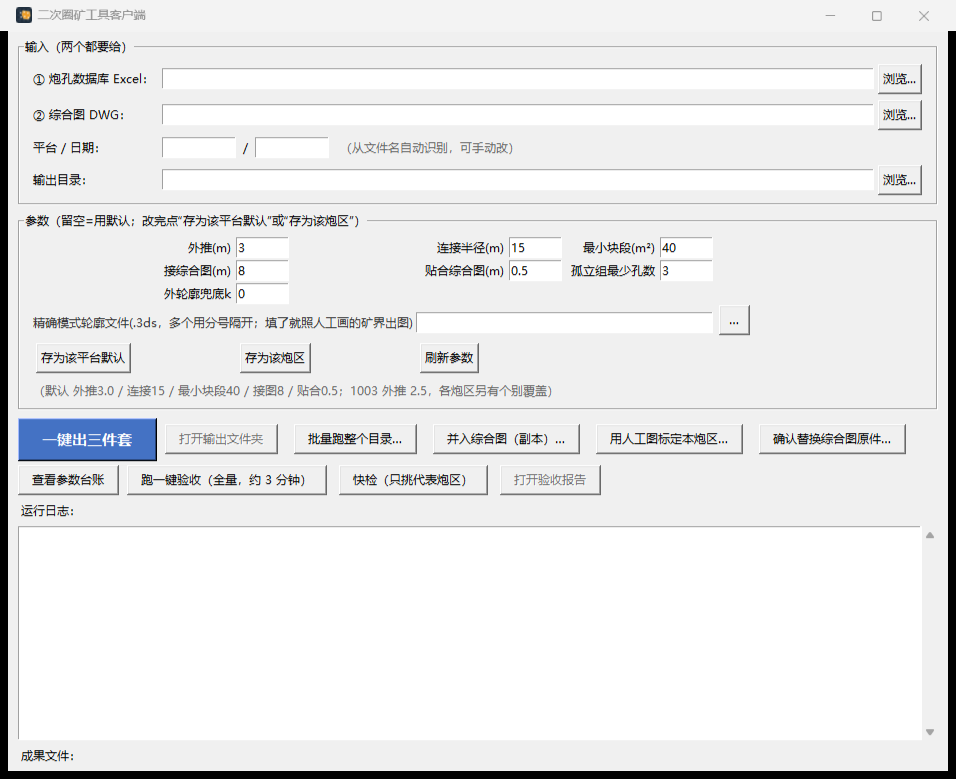
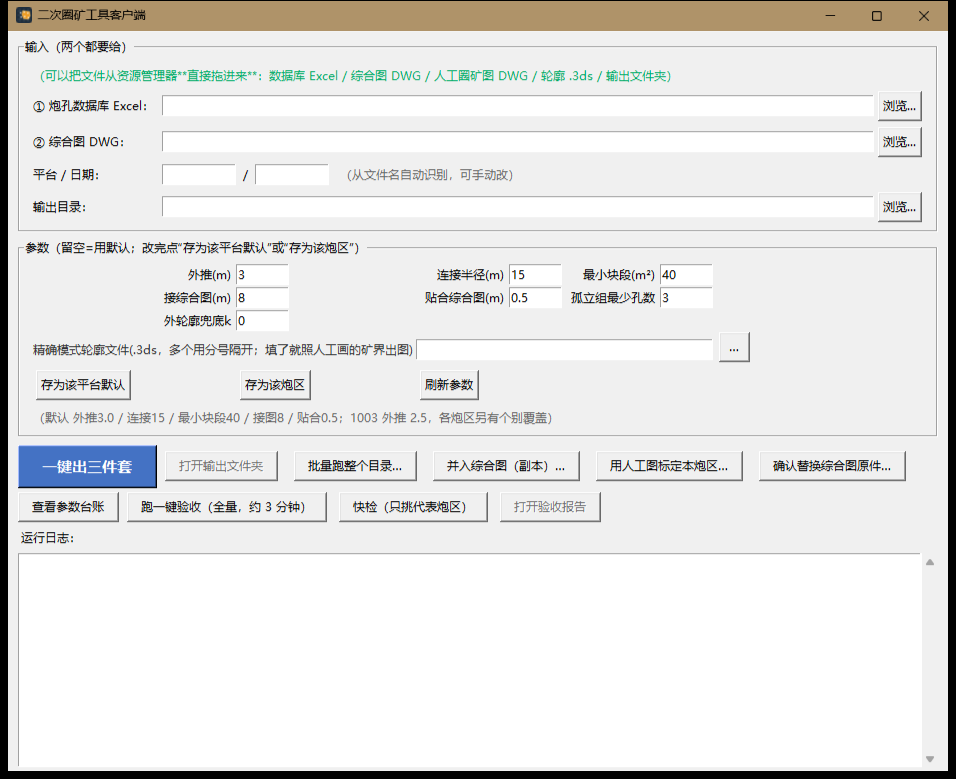
gui: 支持把文件从资源管理器拖进窗口——数据库 Excel(自动识平台/日期+找综合图+填输出目录)/名字带综合的 DWG/其它 DWG(记成人工圈矿图，标定按钮直接用)/.3ds(精确模式轮廓，可多个)/文件夹(输出目录)；用 tkinterdnd2(可选，没装仍可用浏览按钮)；preflight 与四本手册同步

diff --git a/3DMine二次圈矿工具_初步原型/client/gui.py b/3DMine二次圈矿工具_初步原型/client/gui.py
@@ -20,6 +20,15 @@ import tkinter as tk
 from pathlib import Path
 from tkinter import filedialog, messagebox, scrolledtext
 
+# 拖拽支持（可选）：装了 tkinterdnd2 就能把文件从资源管理器拖进来
+try:
+    from tkinterdnd2 import DND_FILES, TkinterDnD
+    DND_OK = True
+except Exception:                    # 没装也不影响其它功能，只是不能拖
+    DND_FILES = None
+    TkinterDnD = None
+    DND_OK = False
+
 ROOT = Path(__file__).resolve().parent.parent
 CLIENT = Path(__file__).resolve().parent
 CORE = ROOT / "core"
@@ -63,10 +72,19 @@ class App:
         root.title("二次圈矿工具客户端")
         root.geometry("940x740")
         root.minsize(760, 560)
+        self._manual_dwg = None      # 拖进来的"人工圈矿图"，给"标定本炮区"直接用
 
         # ---- 输入 ----
         frm = tk.LabelFrame(root, text="输入（两个都要给）", padx=10, pady=8)
         frm.pack(fill="x", padx=10, pady=6)
+
+        if DND_OK:
+            tk.Label(frm, text="（可以把文件从资源管理器直接拖进来："
+                              "数据库 Excel / 综合图 DWG / 人工圈矿图 DWG / 轮廓 .3ds / 输出文件夹）",
+                     fg="#0a6", anchor="w").pack(fill="x", pady=(0, 4))
+        else:
+            tk.Label(frm, text="（想支持「拖进来」就装一下：pip install tkinterdnd2）",
+                     fg="#a60", anchor="w").pack(fill="x", pady=(0, 4))
 
         row1 = tk.Frame(frm)
         row1.pack(fill="x")
@@ -187,6 +205,75 @@ class App:
 
         self.busy = False
         self.refresh_params()
+        if DND_OK:
+            self._setup_dnd()
+
+    # ---------- 拖拽（把文件从资源管理器拖进来）----------
+    def _setup_dnd(self):
+        """整个窗口和几个输入框都注册成拖放目标；松开鼠标就按扩展名/文件名分流。"""
+        targets = [self.root]
+        for w in self.root.winfo_children():
+            targets.append(w)
+        for t in targets:
+            for w in ([t] + list(t.winfo_children())):
+                try:
+                    w.drop_target_register(DND_FILES)
+                    w.dnd_bind("<<Drop>>", self.on_drop)
+                except Exception:
+                    pass
+
+    def on_drop(self, event):
+        """把拖进来的东西分流到对应的输入框。
+
+        * 文件夹            → 输出目录
+        * .xls/.xlsx        → 炮孔数据库（并自动识别平台/日期、自动找同目录的综合图、设输出目录）
+        * .dwg 名字带"综合"  → 综合图
+        * .dwg 其它          → 记成"人工圈矿图"，点「用人工图标定本炮区…」时直接用，不再弹选择框
+        * .3ds              → 精确模式轮廓文件（可一次拖好几个，分号分隔）
+        """
+        try:
+            paths = [Path(p) for p in self.root.tk.splitlist(event.data)]
+        except Exception:
+            paths = []
+        if not paths:
+            return
+        notes = []
+        outlines = []
+        for p in paths:
+            if p.is_dir():
+                self.var_out.set(str(p))
+                notes.append("输出目录 ← %s" % p.name)
+                continue
+            ext = p.suffix.lower()
+            if ext in (".xls", ".xlsx"):
+                self._set_xls(p)
+                notes.append("炮孔数据库 ← %s" % p.name)
+            elif ext == ".dwg":
+                if "综合" in p.name:
+                    self.var_comp.set(str(p))
+                    notes.append("综合图 ← %s" % p.name)
+                else:
+                    self._manual_dwg = p
+                    plat, date = parse_platform_date(p.name)
+                    if plat:
+                        self.var_platform.set(plat)
+                    if date:
+                        self.var_date.set(date)
+                    notes.append("人工圈矿图 ← %s（点「用人工图标定本炮区…」会直接用它）" % p.name)
+            elif ext == ".3ds":
+                outlines.append(str(p))
+            else:
+                notes.append("（没认出来，忽略）%s" % p.name)
+        if outlines:
+            notes.append("精确模式轮廓 ← %s" % "；".join(Path(x).name for x in outlines))
+        self.log.delete("1.0", "end")
+        # 注意顺序：refresh_params() 会按"平台+日期"重填轮廓框，所以拖进来的轮廓要**在它之后**写
+        self.refresh_params()
+        if outlines:
+            self.var_outline.set(";".join(outlines))
+        self.log_line("拖入 %d 个对象：" % len(paths))
+        for n in notes:
+            self.log_line("   " + n)
 
     # ---------- 参数 ----------
     def _params_mod(self):
@@ -264,6 +351,11 @@ class App:
             filetypes=[("Excel", "*.xls *.xlsx"), ("所有文件", "*.*")])
         if not f:
             return
+        self._set_xls(Path(f))
+
+    def _set_xls(self, f: Path):
+        """选/拖到一个数据库之后要做的事：填框、识平台日期、找综合图、设输出目录。"""
+        f = Path(f)
         self.var_xls.set(f)
         plat, date = parse_platform_date(Path(f).name)
         if plat:
@@ -433,10 +525,13 @@ class App:
         if not (plat and date):
             messagebox.showwarning("缺少参数", "平台号和日期都要填（如 3940 / 1008）。")
             return
-        dwg = filedialog.askopenfilename(
-            title="选择该炮区的人工圈矿图 DWG",
-            initialdir=str(Path(self.var_xls.get()).parent) if self.var_xls.get() else None,
-            filetypes=[("DWG", "*.dwg")])
+        if self._manual_dwg is not None and Path(self._manual_dwg).exists():
+            dwg = str(self._manual_dwg)          # 拖进来的那张，直接用
+        else:
+            dwg = filedialog.askopenfilename(
+                title="选择该炮区的人工圈矿图 DWG",
+                initialdir=str(Path(self.var_xls.get()).parent) if self.var_xls.get() else None,
+                filetypes=[("DWG", "*.dwg")])
         if not dwg:
             return
         self.set_busy(True)
@@ -674,7 +769,8 @@ def main():
         app_icon.set_app_user_model_id()
     except Exception:
         app_icon = None
-    root = tk.Tk()
+    # 支持拖拽就用 TkinterDnD 的根窗口（它继承自 tk.Tk，其余用法一样）
+    root = TkinterDnD.Tk() if DND_OK else tk.Tk()
     if app_icon is not None:
         try:
             app_icon.set_window_icon(root)

diff --git a/3DMine二次圈矿工具_初步原型/_probe/_gui_dnd_test.py b/3DMine二次圈矿工具_初步原型/_probe/_gui_dnd_test.py
@@ -1,0 +1,43 @@
+# -*- coding: utf-8 -*-
+# 验证拖拽分流：造一个假的 <<Drop>> 事件，喂几种路径给 on_drop，看落到哪个框里。
+import sys
+import tkinter as tk
+from pathlib import Path
+
+ROOT = Path(__file__).resolve().parent.parent
+sys.path.insert(0, str(ROOT / "client"))
+import gui  # noqa: E402
+
+
+class FakeEvent:
+    def __init__(self, data):
+        self.data = data
+
+
+root = gui.TkinterDnD.Tk() if gui.DND_OK else tk.Tk()
+root.withdraw()
+app = gui.App(root)
+print("DND_OK =", gui.DND_OK)
+
+# ① 数据文件夹里的三样（数据库 / 人工圈矿图 / 综合图）
+db = (r"{D:\WK\N CRT\北部山头3940平台2026\7、单日数据\北部山头3940平台-1011"
+      r"\1、3940平台 炮孔数据库1011.xls}")
+fig = r"{D:\WK\N CRT\北部山头3940平台2026\7、单日数据\北部山头3940平台-1011\5、 北部山头3940平台二次圈矿矿块图1011.dwg}"
+comp = r"{D:\WK\N CRT\北部山头3940平台2026\5、 北部山头3940平台二次圈矿矿块图-2026综合.dwg}"
+out3ds = r"{C:\Users\Administrator\Desktop\左边界，未外推.3ds} {C:\Users\Administrator\Desktop\右边界，未外推.3ds}"
+app.on_drop(FakeEvent("%s %s %s" % (db, fig, comp)))
+print("① 数据库 :", app.var_xls.get())
+print("  平台/日期:", app.var_platform.get(), "/", app.var_date.get())
+print("  综合图  :", app.var_comp.get())
+print("  输出目录:", app.var_out.get())
+print("  人工图  :", app._manual_dwg)
+
+app.on_drop(FakeEvent(out3ds))
+print("② 精确模式轮廓:", app.var_outline.get())
+
+app.on_drop(FakeEvent(r"{D:\WK\N CRT\release_v1}"))
+print("③ 输出目录:", app.var_out.get())
+
+print("--- 日志区内容 ---")
+print(app.log.get("1.0", "end").strip()[:600])
+root.destroy()

diff --git a/3DMine二次圈矿工具_初步原型/core/preflight.py b/3DMine二次圈矿工具_初步原型/core/preflight.py
@@ -54,7 +54,8 @@ print("\n2) 依赖包")
 need = [("numpy", 1), ("scipy", 1), ("shapely", 1), ("matplotlib", 1),
         ("ezdxf", 1), ("openpyxl", 1), ("xlrd", 1)]
 opt = [("win32com.client", "AutoCAD 只读扫描 / DXF→DWG2010（没有也能出 DXF）"),
-       ("pyodbc", "直读 .mdb 数据库（正常流程用导出的 Excel，不需要）")]
+       ("pyodbc", "直读 .mdb 数据库（正常流程用导出的 Excel，不需要）"),
+       ("tkinterdnd2", "把文件从资源管理器拖进界面（没有也能用「浏览…」按钮）")]
 for name, must in need:
     try:
         importlib.import_module(name)

diff --git a/3DMine二次圈矿工具_初步原型/故障与排查.md b/3DMine二次圈矿工具_初步原型/故障与排查.md
@@ -25,6 +25,8 @@
 | `数据库缺少工作表：定位表/pit_blast` | 表名被改过？ | 用 3DMine 原样导出的库（表名固定这两个） |
 | `定位表第 N 行读不动…` / `pit_blast 第 N 行的 Au 不是数字…` | 那一行是不是空行、合并单元格、或写了"0.5~1"这种区间 | 在原表里改干净（空行删掉、区间拆成数值） |
 | `[错误] 认不出日期（炮区号）` | 文件名里有没有 4 位炮区号 | GUI 里手工填平台/日期（自动识别只是方便） |
+| 拖进去没反应 | 装没装 `tkinterdnd2` | `pip install tkinterdnd2`；没装就用各栏的「浏览…」按钮（其它功能不受影响） |
+| 拖进来的 `.dwg` 跑到综合图栏去了 | 文件名里带"综合"就会被当综合图 | 人工圈矿图的名字一般形如 `…二次圈矿矿块图1011.dwg`，不含"综合"，会被认成人工圈矿图；实在认错就手工用「浏览…」选 |
 | `[错误] 没圈出任何矿块` | 品位是不是全 <0.5、或者坐标列反了 | 先 `params_report` 看 `zone_link_m`；坐标反了要在库里纠正（E/N 列） |
 
 ---

diff --git a/3DMine二次圈矿工具_初步原型/交付说明.md b/3DMine二次圈矿工具_初步原型/交付说明.md
@@ -9,6 +9,12 @@
 3. 在界面上：选**炮孔数据库 Excel** → 选该平台的**综合图 DWG** → 填**平台/日期**
    （从文件名自动识别，可手改）→ 给一个**输出目录** → 点 **一键出三件套**。
 
+> **也可以直接把文件从资源管理器拖进窗口**（v1.1 起）：数据库 Excel 会落到数据库栏并
+> 自动识别平台/日期、自动找同目录的综合图、自动填输出目录；名字带"综合"的 DWG 落到综合图栏；
+> 其它 DWG 记成"人工圈矿图"（点「用人工图标定本炮区…」时直接用它，不再弹选择框）；
+> `.3ds` 落到"精确模式轮廓文件"栏（可一次拖好几个）；**文件夹**落到输出目录。
+> 拖拽需要 `tkinterdnd2`（本机已装）：`pip install tkinterdnd2`——没装也能用各栏的「浏览…」。
+
 产出（输出目录里）：
 
 | 文件 | 内容 |

diff --git a/3DMine二次圈矿工具_初步原型/README.md b/3DMine二次圈矿工具_初步原型/README.md
@@ -44,6 +44,10 @@
 矿界 .3ds）→ 主按钮（**一键出三件套**、批量、并入综合图副本、人工图标定、确认替换）
 → **自查按钮**（查看参数台账 / 跑一键验收 / 快检 / 打开验收报告）。
 
+**支持拖拽**（v1.1 起，需 `pip install tkinterdnd2`）：把数据库 Excel / 综合图 DWG /
+人工圈矿图 DWG / 轮廓 .3ds / 输出文件夹**从资源管理器直接拖进窗口**，按类型自动落到对应栏
+（数据库还会自动识别平台日期、自动找综合图、自动填输出目录）。
+
 ### 双击就能用的另外两个 .bat
 
 | 双击 | 作用 |

diff --git a/3DMine二次圈矿工具_初步原型/项目结构说明.md b/3DMine二次圈矿工具_初步原型/项目结构说明.md
@@ -20,6 +20,10 @@
 
 后面还有两个勾选：**转 DWG 2010**（需本机 AutoCAD；失败就留 DXF）、**圈完顺手并入综合图副本**。
 
+**支持拖拽**（`tkinterdnd2`，可选）：数据库 Excel → 数据库栏（并自动识平台/日期、找综合图、填输出目录）；
+名字带"综合"的 DWG → 综合图栏；其它 DWG → 人工圈矿图（标定按钮直接用）；`.3ds` → 精确模式轮廓栏；
+文件夹 → 输出目录。
+
 ### 2. 命令行（等价）
 
 ```
